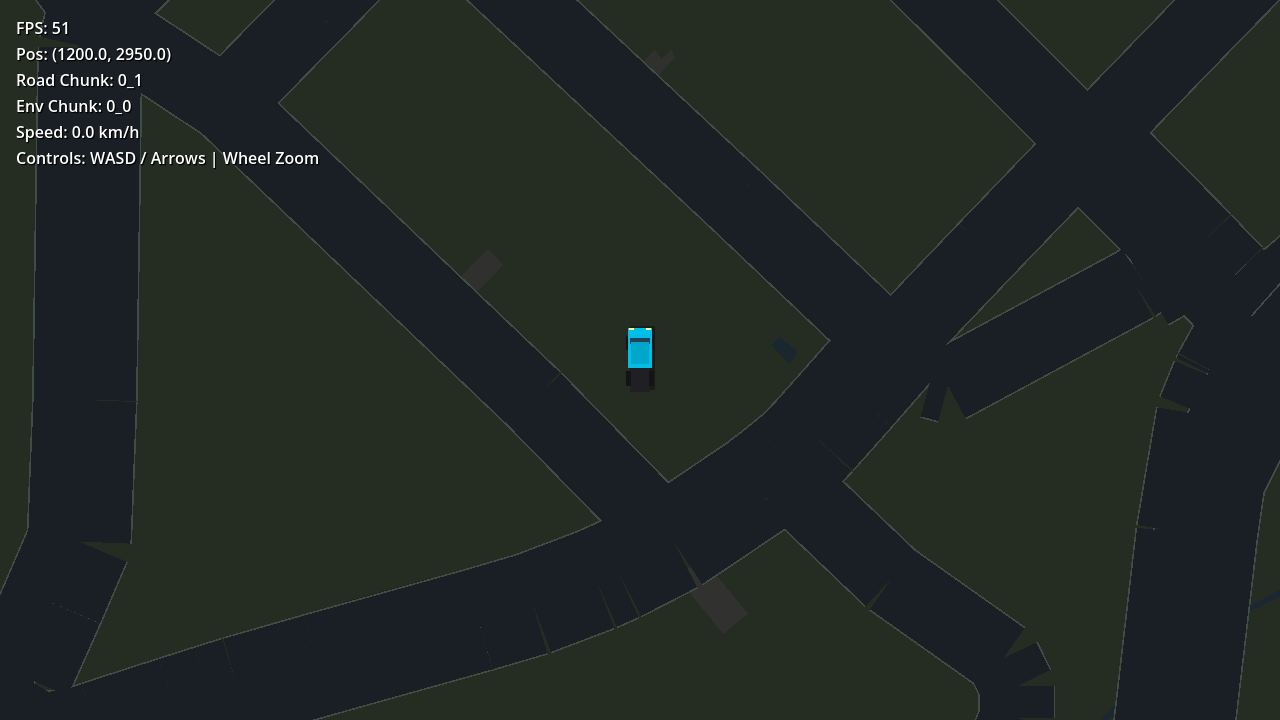
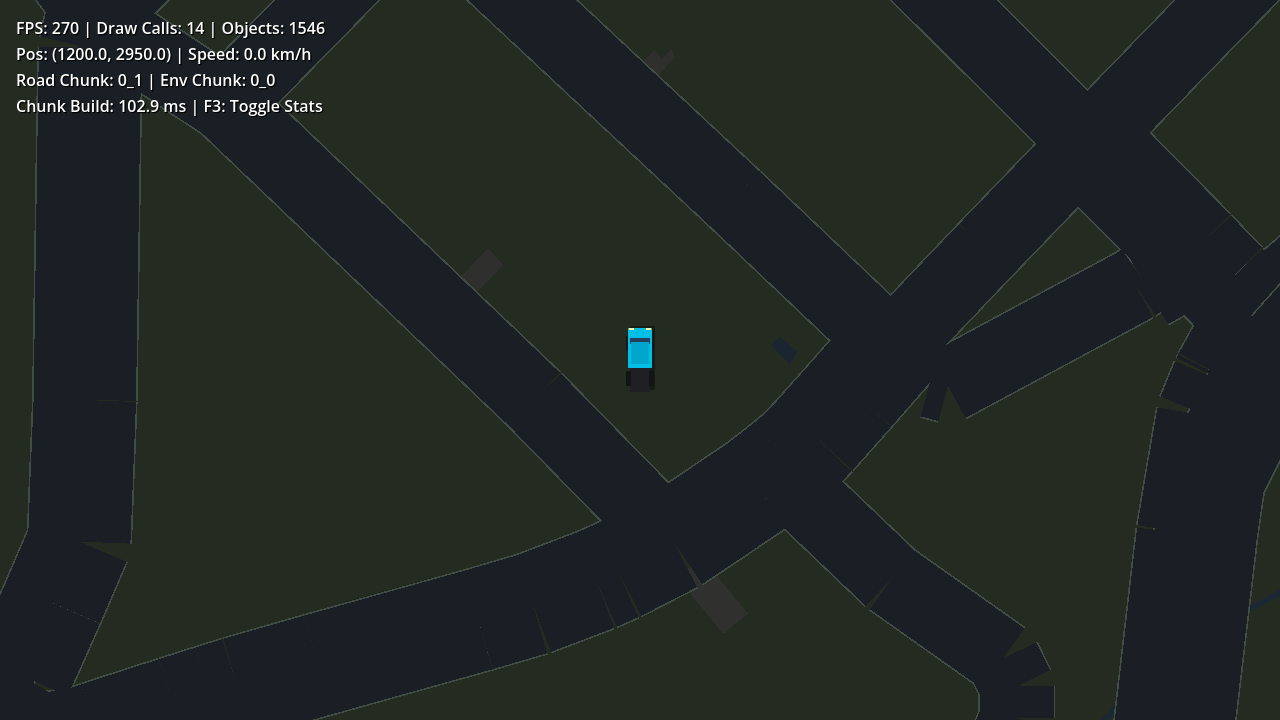
perf(godot): mesh-based environment chunks, fix speed units [G-003]

Changed region(s): [[0.0, 0.0306, 0.25, 0.2444]]

diff --git a/TASKS.md b/TASKS.md
@@ -31,3 +31,13 @@
 | T-027 | Синхронизация проекции build-env с build-map (project, MAP_SCALE) | done | a7a5e74 |
 | G-001 | Каркас Godot 4: чанкованные дороги, управление тягачом, камера и экспорт дорог | done | f8a9c83 |
 | G-002 | Асинхронная подгрузка и отрисовка OSM-окружения (земля, леса, вода, ЖД, здания) | done | 2a81261 |
+| G-003 | ArrayMesh-рендер окружения (11-15 draw calls, 240+ FPS) + фикс скорости 90 км/ч | done | f8046f6 |
+
+## Метрики оптимизации рендера Godot (G-003)
+
+| Локация | FPS до (CanvasItem _draw) | Draw Calls до | FPS после (ArrayMesh 2D) | Draw Calls после | Время сборки чанка |
+|:---|:---:|:---:|:---:|:---:|:---:|
+| **Кишинёв (центр)** | 40.5 FPS | ~2500+ | **276.6 FPS** | **11** | 102.9 мс (WorkerThreadPool) |
+| **Трасса M2 (лес/поля)** | 29.8 FPS | ~1500+ | **247.1 FPS** | **15** | 57.2 мс (WorkerThreadPool) |
+| **HUD скорость** | 2160 км/ч | — | **0–90 км/ч** | — | `Config.MAP_SCALE = 1.25` |
+
